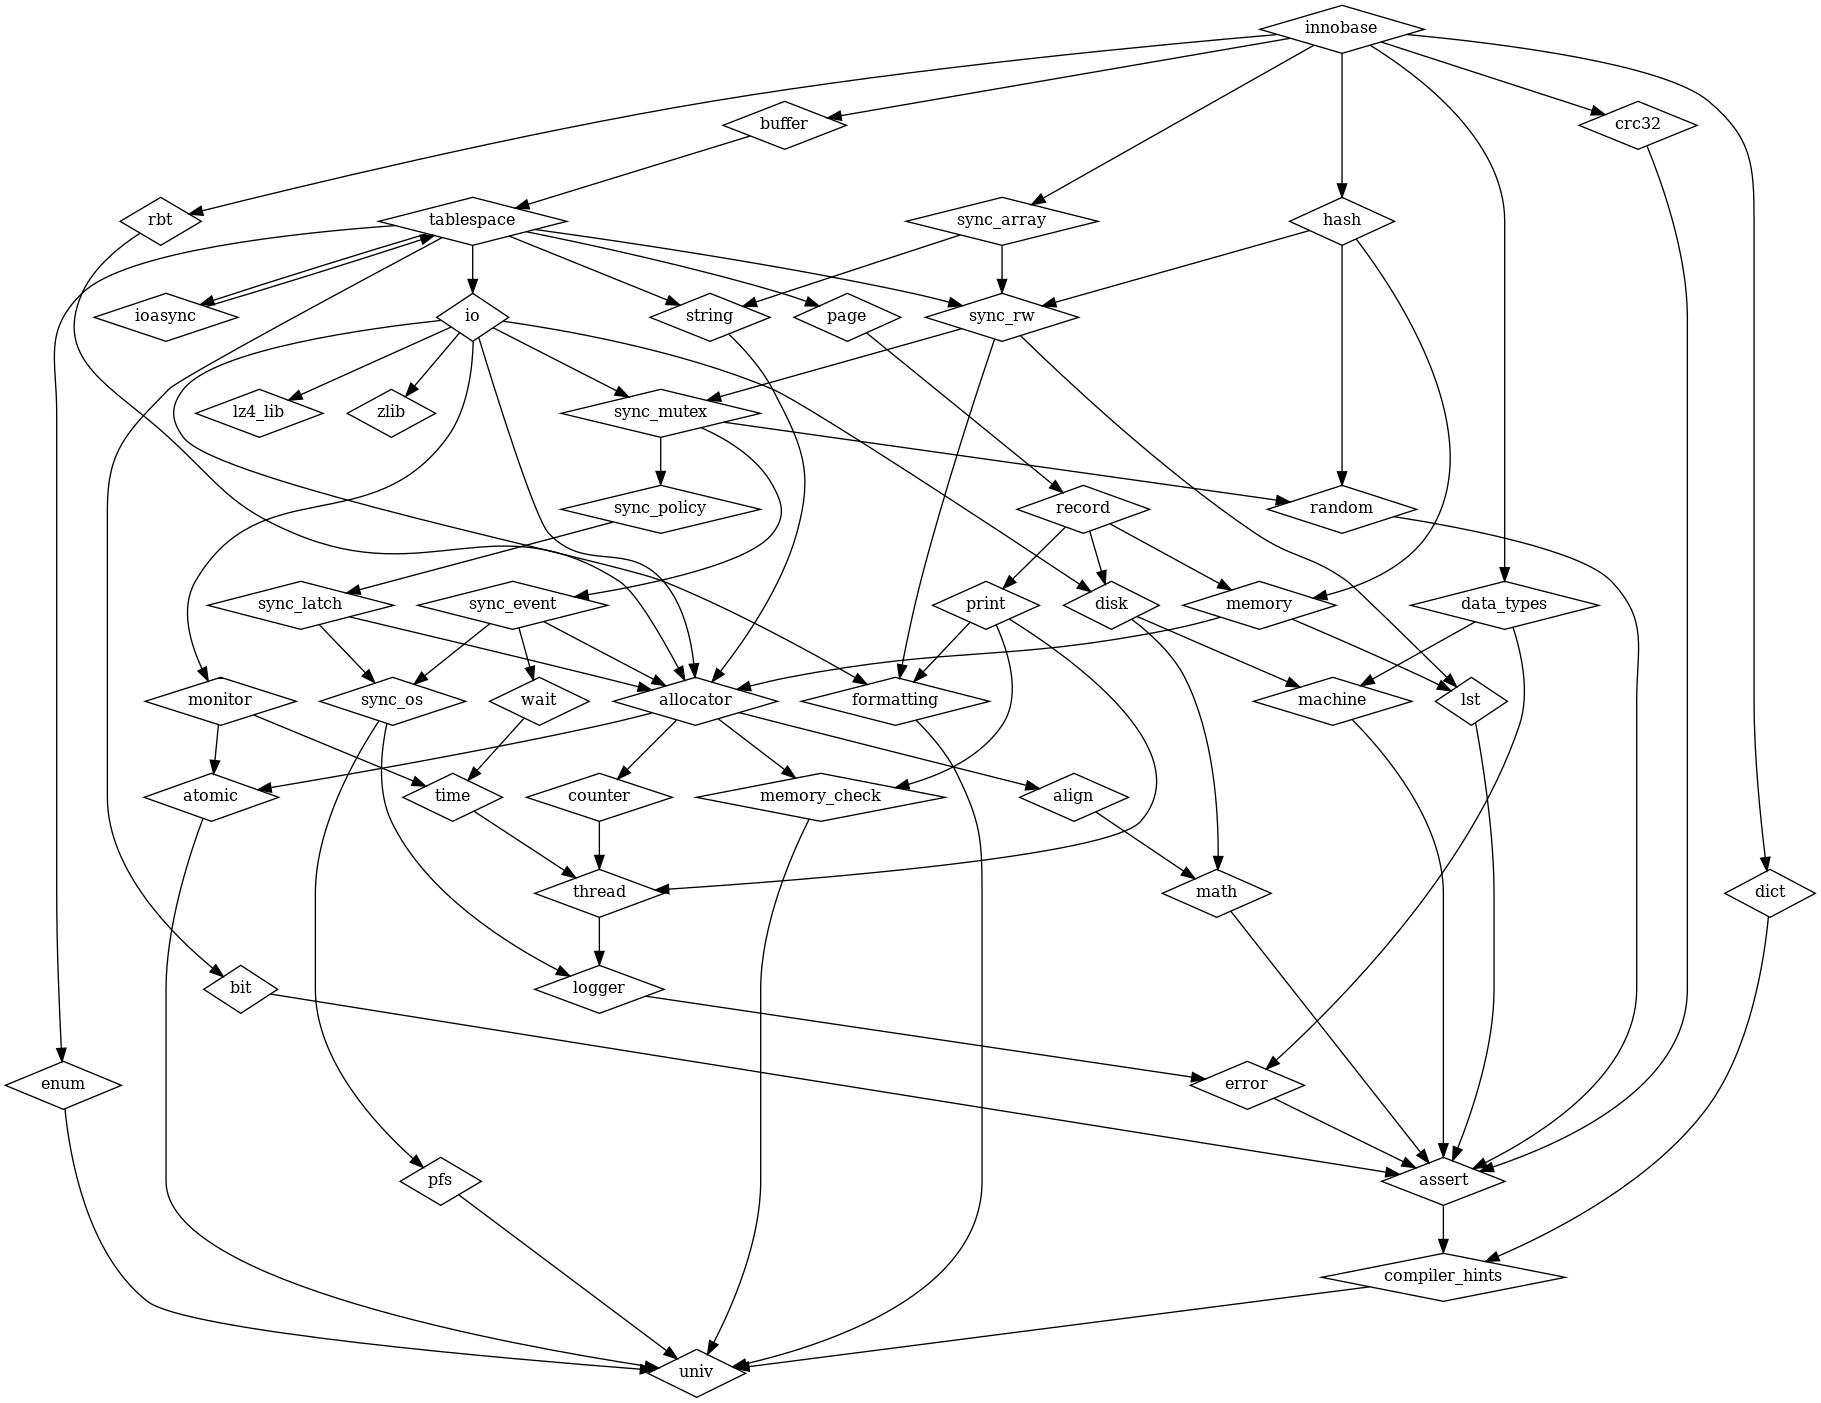
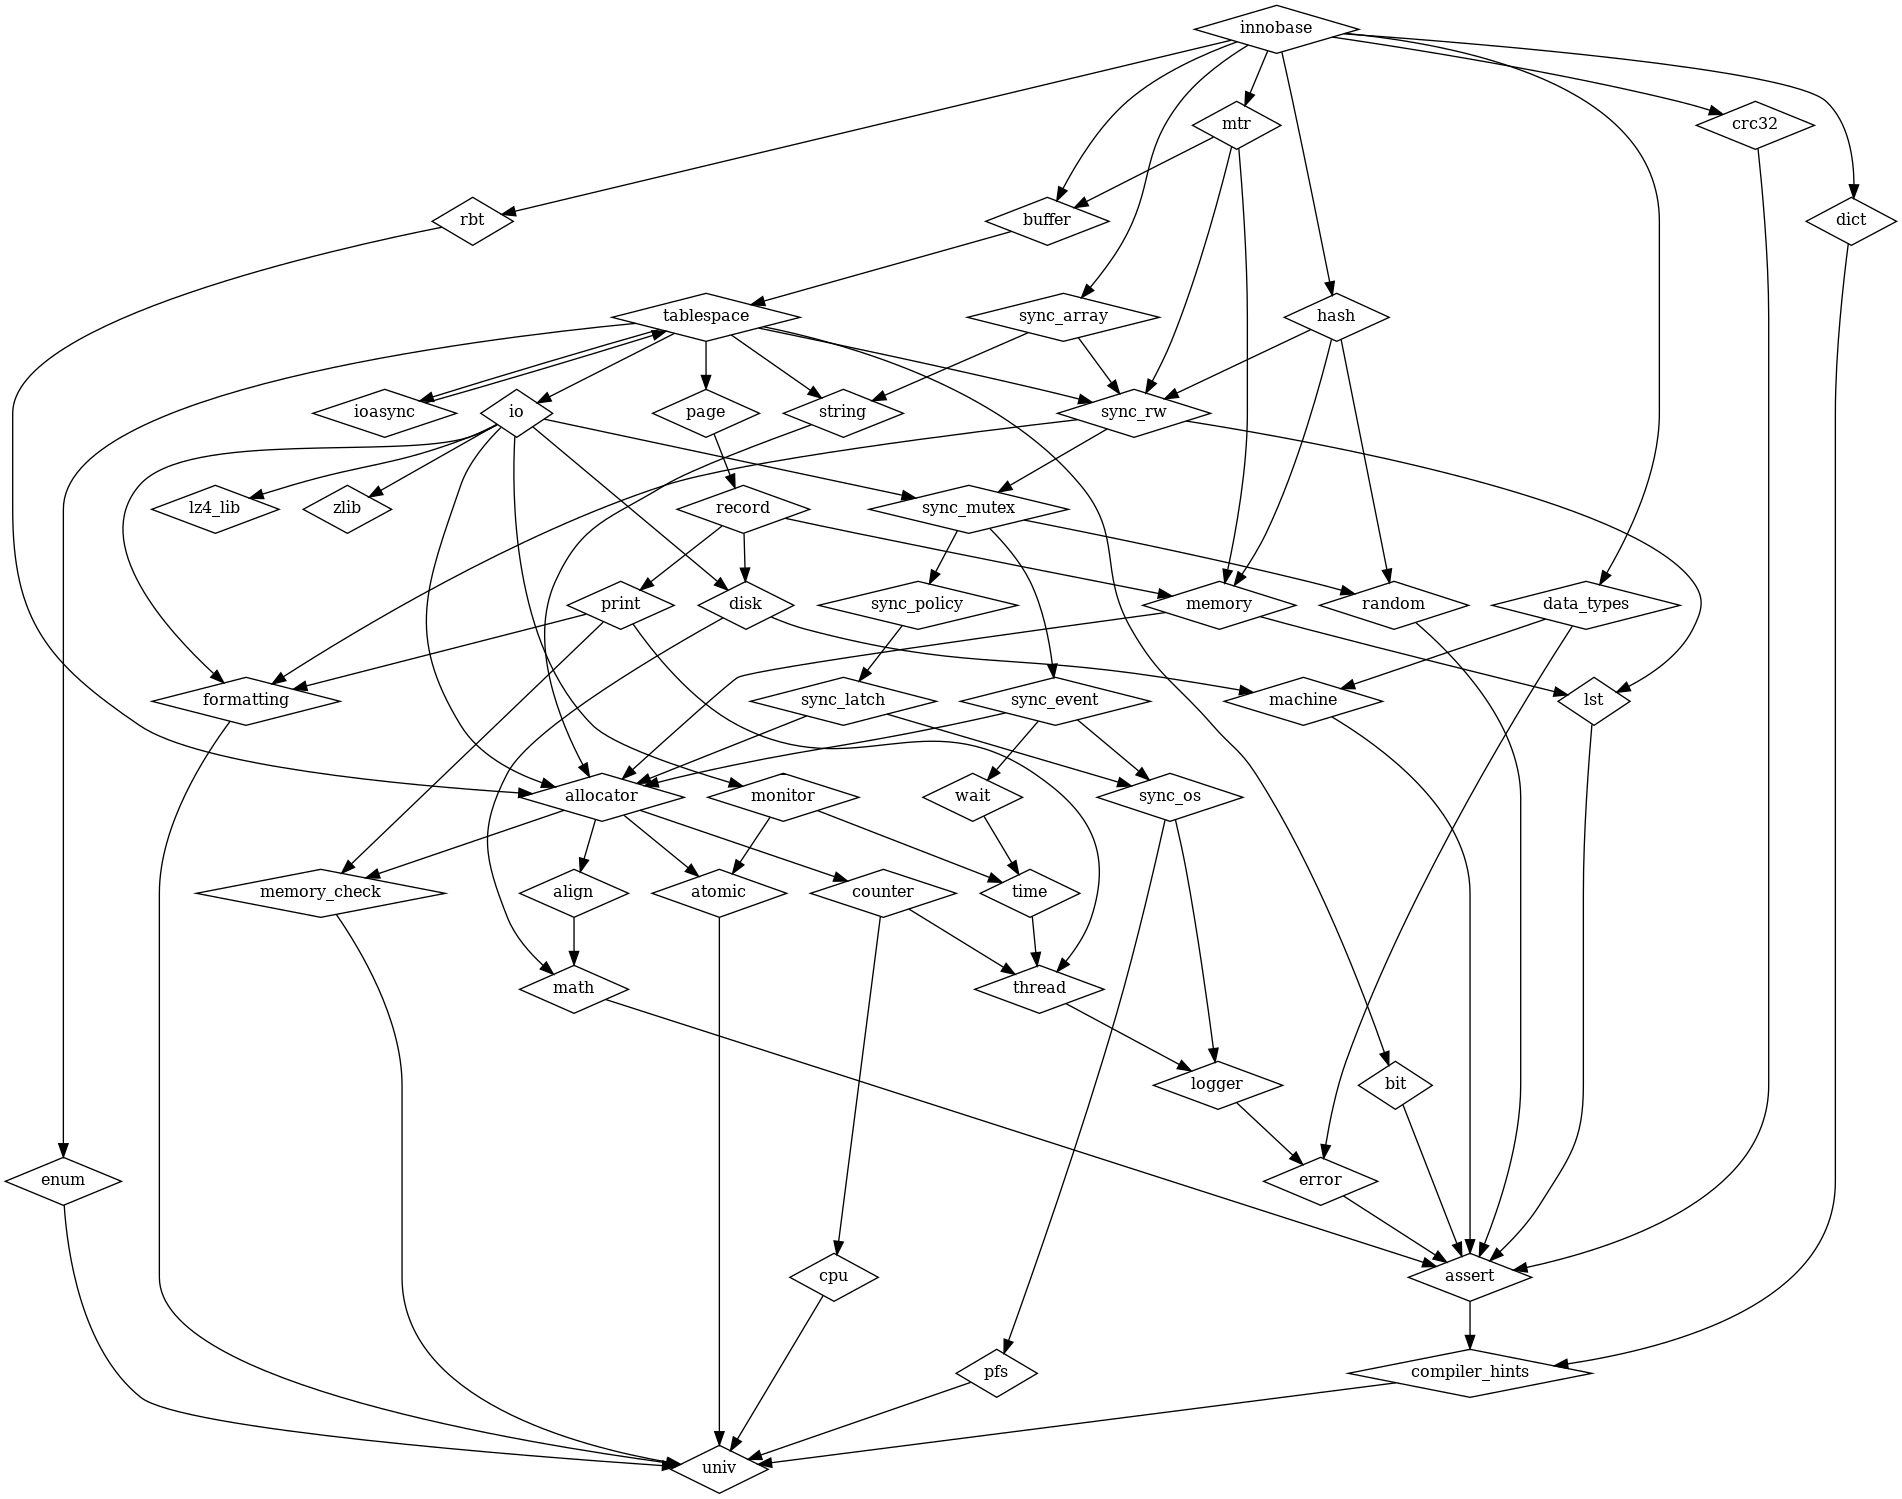
Extend sync_rw library and create cpu library

diff --git a/storage/innobase/libs/sync_rw/include/innodb/sync_rw/Sharded_rw_lock.h b/storage/innobase/libs/sync_rw/include/innodb/sync_rw/Sharded_rw_lock.h
@@ -1,65 +1,29 @@
-/*****************************************************************************
-
-Copyright (c) 2017, 2018, Oracle and/or its affiliates. All Rights Reserved.
-
-This program is free software; you can redistribute it and/or modify
-it under the terms of the GNU General Public License, version 2.0,
-as published by the Free Software Foundation.
-
-This program is also distributed with certain software (including
-but not limited to OpenSSL) that is licensed under separate terms,
-as designated in a particular file or component or in included license
-documentation.  The authors of MySQL hereby grant you an additional
-permission to link the program and your derivative works with the
-separately licensed software that they have included with MySQL.
-
-This program is distributed in the hope that it will be useful,
-but WITHOUT ANY WARRANTY; without even the implied warranty of
-MERCHANTABILITY or FITNESS FOR A PARTICULAR PURPOSE.  See the
-GNU General Public License, version 2.0, for more details.
-
-You should have received a copy of the GNU General Public License
-along with this program; if not, write to the Free Software
-Foundation, Inc., 51 Franklin St, Fifth Floor, Boston, MA 02110-1301  USA
-
-Portions of this file contain modifications contributed and copyrighted by
-Google, Inc. Those modifications are gratefully acknowledged and are described
-briefly in the InnoDB documentation. The contributions by Google are
-incorporated with their permission, and subject to the conditions contained in
-the file COPYING.Google.
-
-*****************************************************************************/
-
-/**************************************************/ /**
- @file include/sync0sharded_rw.h
-
- The sharded read-write lock (for threads).
-
- The s-lock scales better than in single rw-lock,
- but the x-lock is much slower.
-
- *******************************************************/
-
-#ifndef sync0sharded_rw_h
-#define sync0sharded_rw_h
+#pragma once
 
 #include <innodb/univ/univ.h>
+
+#include <innodb/allocator/ut_free.h>
+#include <innodb/allocator/ut_zalloc_nokey.h>
+#include <innodb/cpu/flags.h>
+#include <innodb/random/random.h>
 #include <innodb/sync_latch/latch_level_t.h>
 #include <innodb/sync_rw/rw_lock_create.h>
 #include <innodb/sync_rw/rw_lock_free.h>
-#include <innodb/sync_rw/rw_lock_s_lock_nowait.h>
 #include <innodb/sync_rw/rw_lock_s_lock.h>
+#include <innodb/sync_rw/rw_lock_s_lock_nowait.h>
 #include <innodb/sync_rw/rw_lock_s_unlock.h>
 #include <innodb/sync_rw/rw_lock_x_lock.h>
 #include <innodb/sync_rw/rw_lock_x_unlock.h>
 
 #include <algorithm>
 
-
-#include <innodb/random/random.h>
-
 #ifndef UNIV_HOTBACKUP
 #ifndef UNIV_LIBRARY
+
+/* The sharded read-write lock (for threads).
+
+The s-lock scales better than in single rw-lock,
+but the x-lock is much slower. */
 
 /** Rw-lock with very fast, highly concurrent s-lock but slower x-lock.
 It's basically array of rw-locks. When s-lock is being acquired, single
@@ -165,5 +129,3 @@ class Sharded_rw_lock {
 
 #endif /* UNIV_LIBRARY */
 #endif /* UNIV_HOTBACKUP */
-
-#endif /* sync0sharded_rw.h */

diff --git a/storage/innobase/libs/counter/include/innodb/counter/counter.h b/storage/innobase/libs/counter/include/innodb/counter/counter.h
@@ -35,23 +35,16 @@ this program; if not, write to the Free Software Foundation, Inc.,
 
 
 #include <innodb/univ/univ.h>
+
 #include <innodb/thread/os_thread_get_curr_id.h>
+#include <innodb/error/ut_error.h>
+#include <innodb/cpu/flags.h>
 
 #include <my_rdtsc.h>
-
-
-
-#include <innodb/error/ut_error.h>
-
 #include <array>
 #include <atomic>
 
-/** CPU cache line size */
-#ifdef __powerpc__
-#define INNOBASE_CACHE_LINE_SIZE 128
-#else
-#define INNOBASE_CACHE_LINE_SIZE 64
-#endif /* __powerpc__ */
+
 
 /** Default number of slots to use in ib_counter_t */
 #define IB_N_SLOTS 64

diff --git a/storage/innobase/include/buf0flu.h b/storage/innobase/include/buf0flu.h
@@ -155,7 +155,7 @@ already in it.
 @param[in]	start_lsn	start lsn of the first mtr in a set of mtr's
 @param[in]	end_lsn		end lsn of the last mtr in the set of mtr's
 @param[in]	observer	flush observer */
-UNIV_INLINE
+inline
 void buf_flush_note_modification(buf_block_t *block, lsn_t start_lsn,
                                  lsn_t end_lsn, FlushObserver *observer);
 

diff --git a/storage/innobase/include/log0types.h b/storage/innobase/include/log0types.h
@@ -57,7 +57,8 @@ this program; if not, write to the Free Software Foundation, Inc.,
 #include <string>
 
 
-#include "sync0sharded_rw.h"
+#include <innodb/sync_rw/Sharded_rw_lock.h>
+
 #include "ut0link_buf.h"
 
 #include <innodb/tablespace/lsn_t.h>

diff --git a/storage/innobase/libs/mtr/include/innodb/mtr/Add_dirty_blocks_to_flush_list.h b/storage/innobase/libs/mtr/include/innodb/mtr/Add_dirty_blocks_to_flush_list.h
@@ -8,7 +8,7 @@
 #include <innodb/tablespace/lsn_t.h>
 
 class FlushObserver;
-UNIV_INLINE
+
 void buf_flush_note_modification(buf_block_t *block, lsn_t start_lsn,
                                  lsn_t end_lsn, FlushObserver *observer);
 

diff --git a/storage/innobase/libs/cpu/include/innodb/cpu/flags.h b/storage/innobase/libs/cpu/include/innodb/cpu/flags.h
@@ -1,0 +1,11 @@
+#pragma once
+
+#include <innodb/univ/univ.h>
+
+
+/** CPU cache line size */
+#ifdef __powerpc__
+#define INNOBASE_CACHE_LINE_SIZE 128
+#else
+#define INNOBASE_CACHE_LINE_SIZE 64
+#endif /* __powerpc__ */

diff --git a/storage/innobase/libs/cpu/tests/main.cpp b/storage/innobase/libs/cpu/tests/main.cpp
@@ -1,0 +1,9 @@
+#include <gtest/gtest.h>
+
+int main( int argc, char **argv ) 
+{
+    ::testing::InitGoogleTest(&argc, argv);
+    return RUN_ALL_TESTS();
+}
+
+

diff --git a/storage/innobase/libs/cpu/tests/base.cpp b/storage/innobase/libs/cpu/tests/base.cpp
@@ -1,0 +1,12 @@
+#include <gtest/gtest.h>
+// #include <innodb/cpu/cpu.h>
+
+
+//
+//
+TEST( cpu, constructor )
+{
+
+}
+
+

diff --git a/storage/innobase/libs/sync_rw/src/Sharded_rw_lock.cpp b/storage/innobase/libs/sync_rw/src/Sharded_rw_lock.cpp
@@ -1,0 +1,1 @@
+#include <innodb/sync_rw/Sharded_rw_lock.h>

diff --git a/storage/innobase/libs/cpu/src/flags.cpp b/storage/innobase/libs/cpu/src/flags.cpp
@@ -1,0 +1,1 @@
+#include <innodb/cpu/flags.h>
